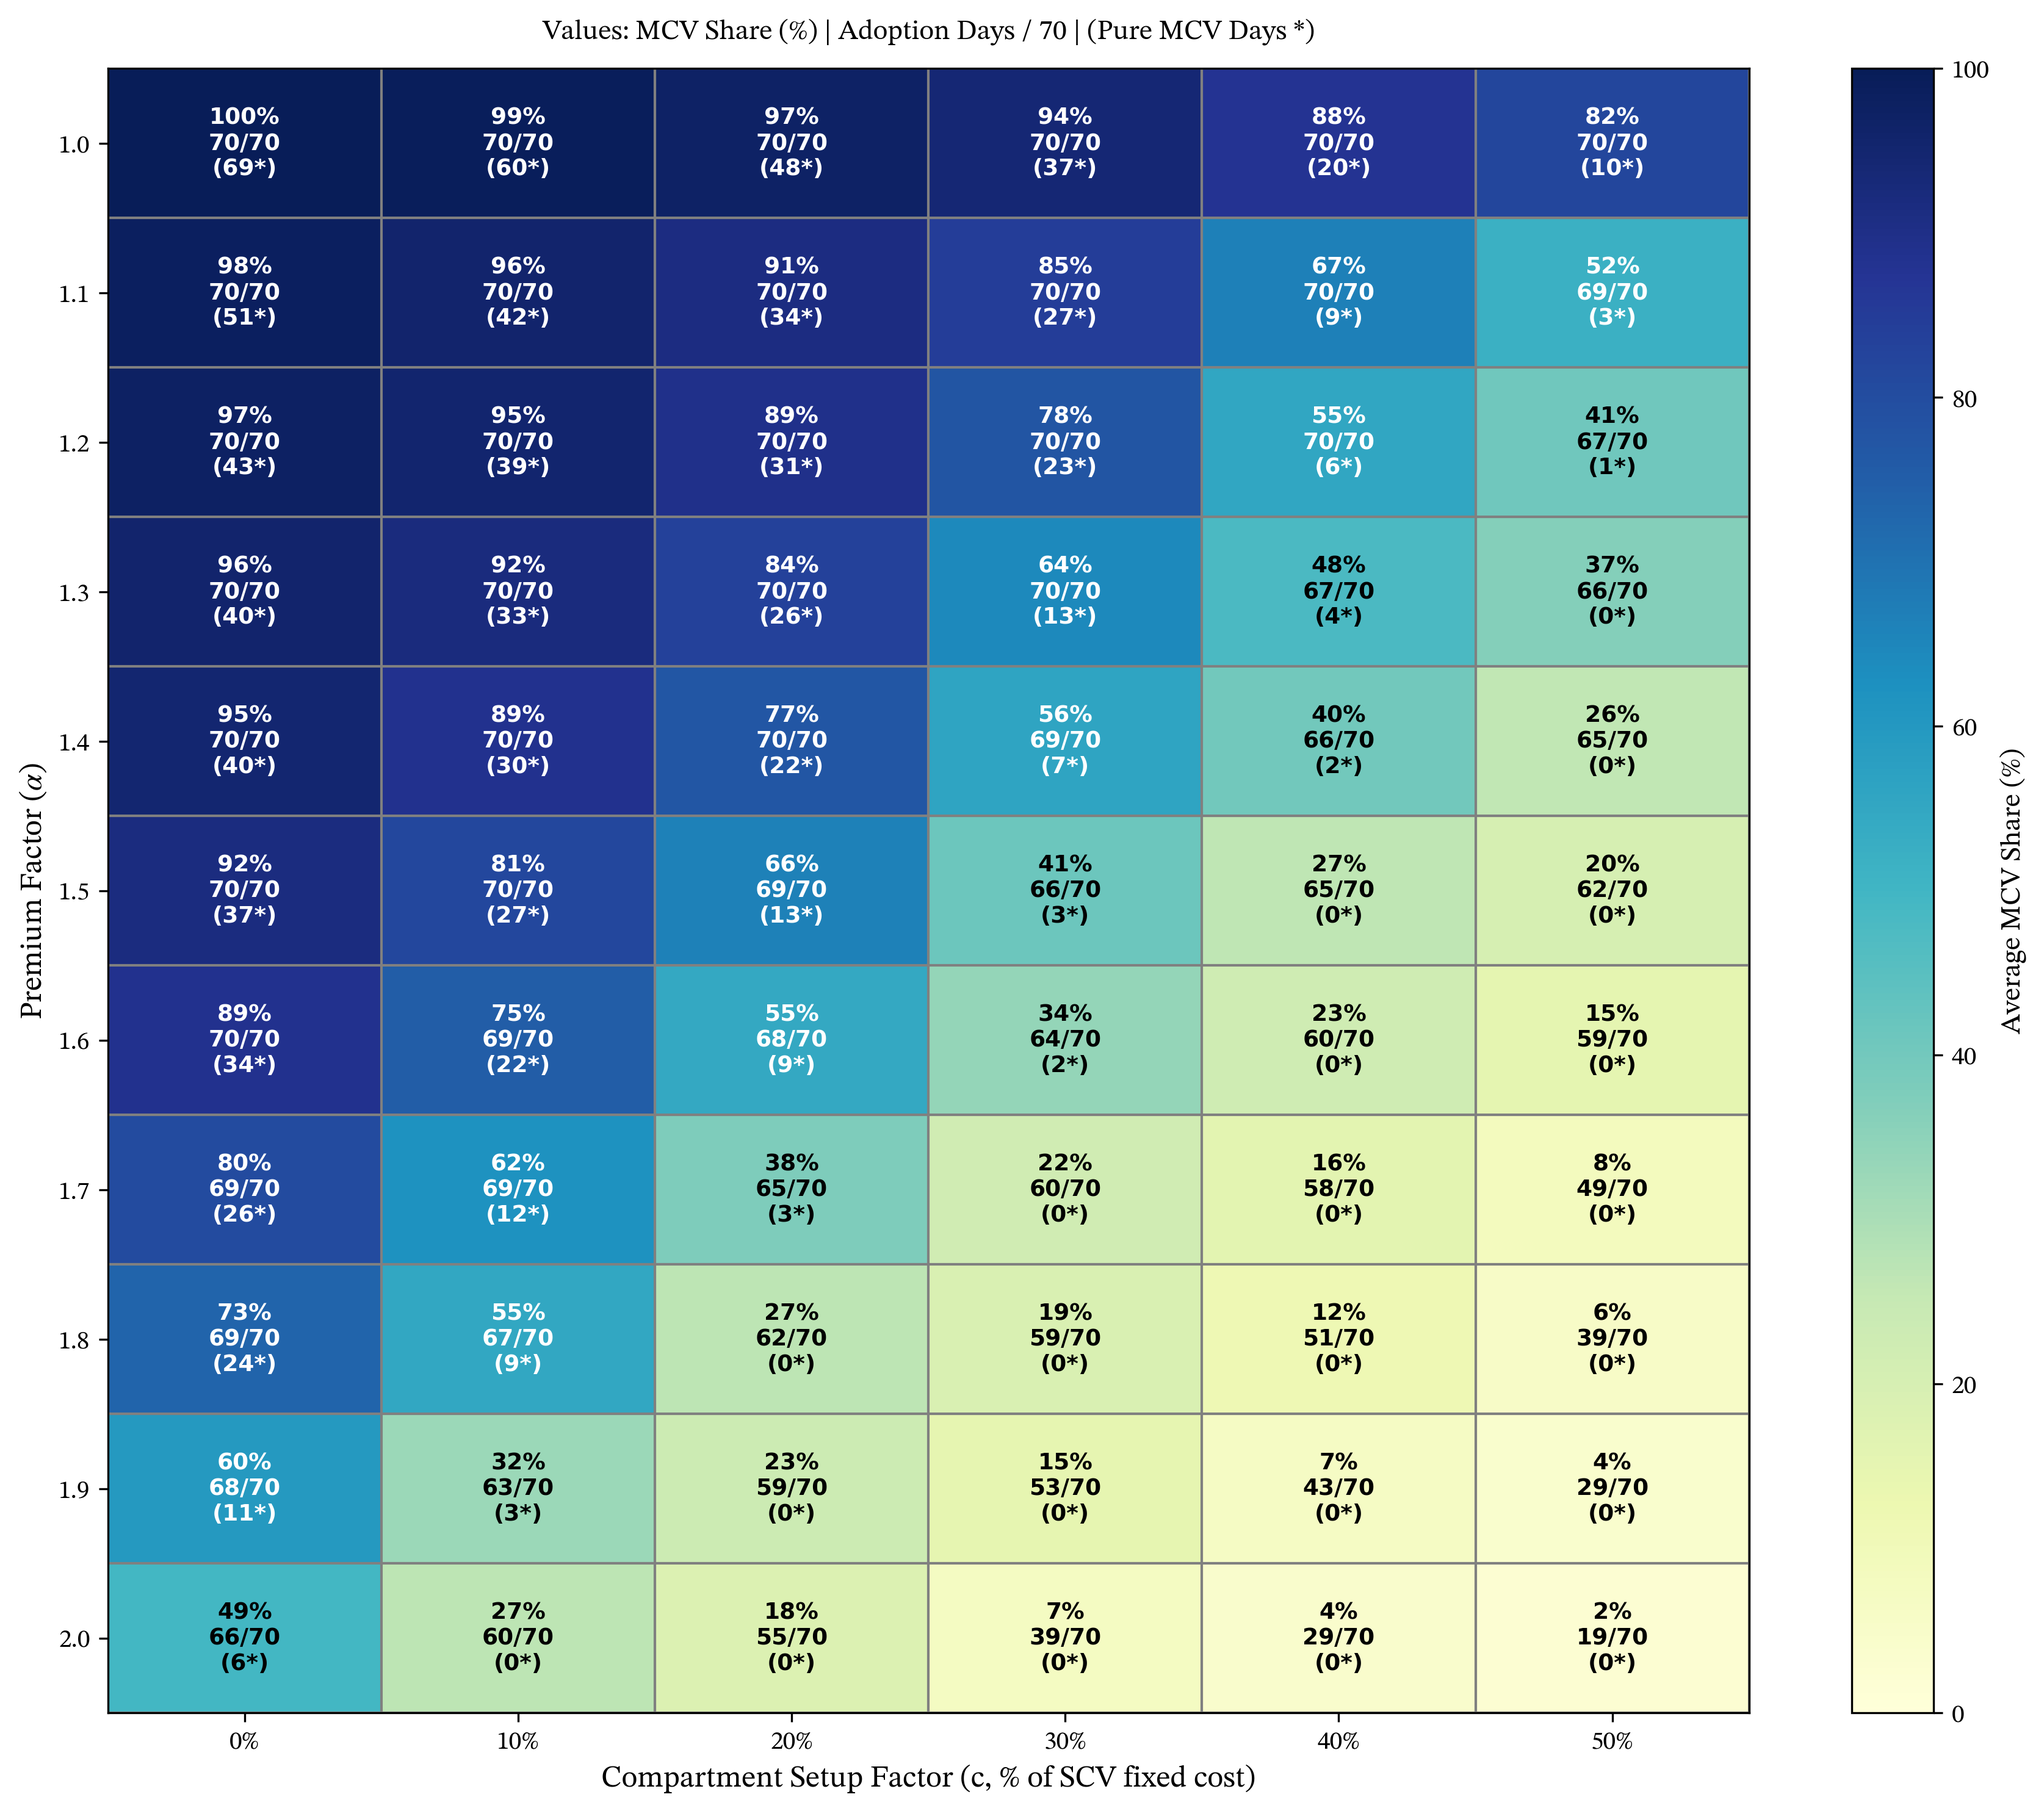
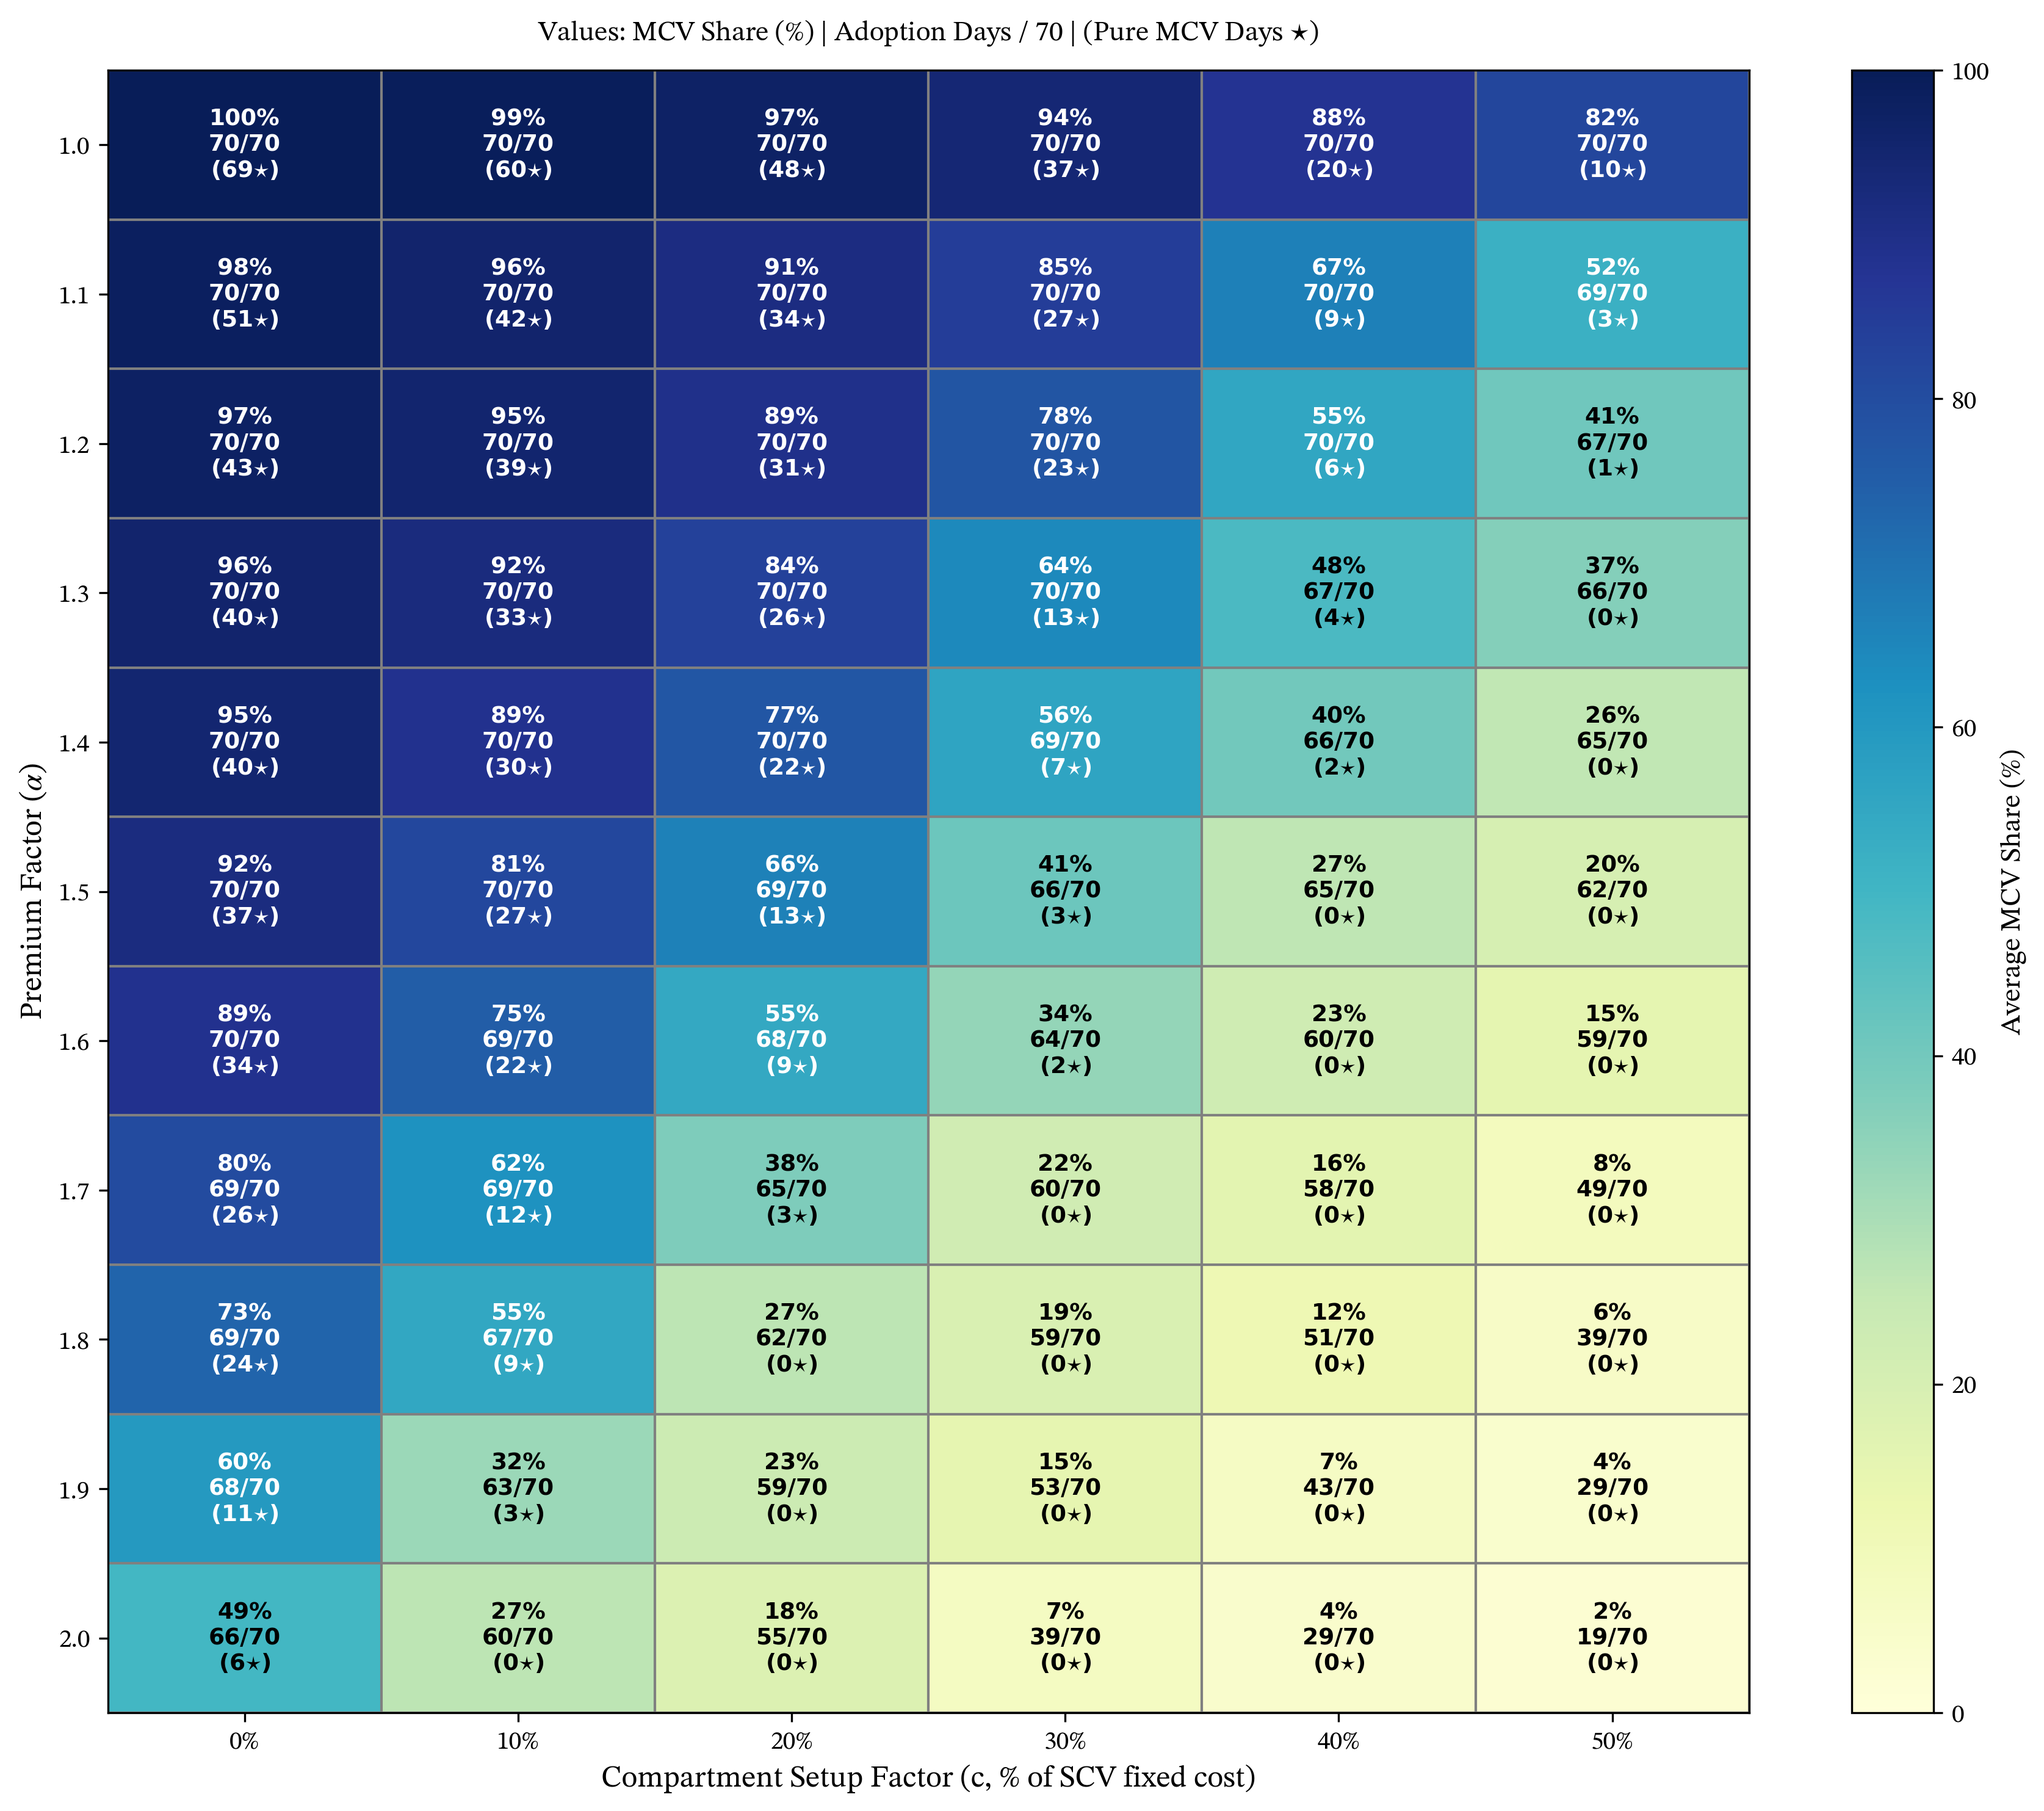
heatmap title

diff --git a/paper/scripts/generate_section_7_3.py b/paper/scripts/generate_section_7_3.py
@@ -248,7 +248,7 @@ def plot_heatmap(metrics: pd.DataFrame, output_dir: Path) -> None:
             text_color = "white" if share_pct > 50 else "black"
 
             # Multi-line annotation (use default sans-serif font for cell contents)
-            text = f"{share_pct:.0f}%\n{adoption_days}/70\n({pure_days}*)"
+            text = f"{share_pct:.0f}%\n{adoption_days}/70\n({pure_days}$\\star$)"
             ax.text(
                 j,
                 i,
@@ -272,7 +272,7 @@ def plot_heatmap(metrics: pd.DataFrame, output_dir: Path) -> None:
     ax.set_xlabel("Compartment Setup Factor (c, % of SCV fixed cost)", fontsize=12)
     ax.set_ylabel(r"Premium Factor ($\alpha$)", fontsize=12)
     ax.set_title(
-        "Values: MCV Share (%) | Adoption Days / 70 | (Pure MCV Days *)",
+        r"Values: MCV Share (%) | Adoption Days / 70 | (Pure MCV Days $\star$)",
         fontsize=11,
         pad=12,
     )
